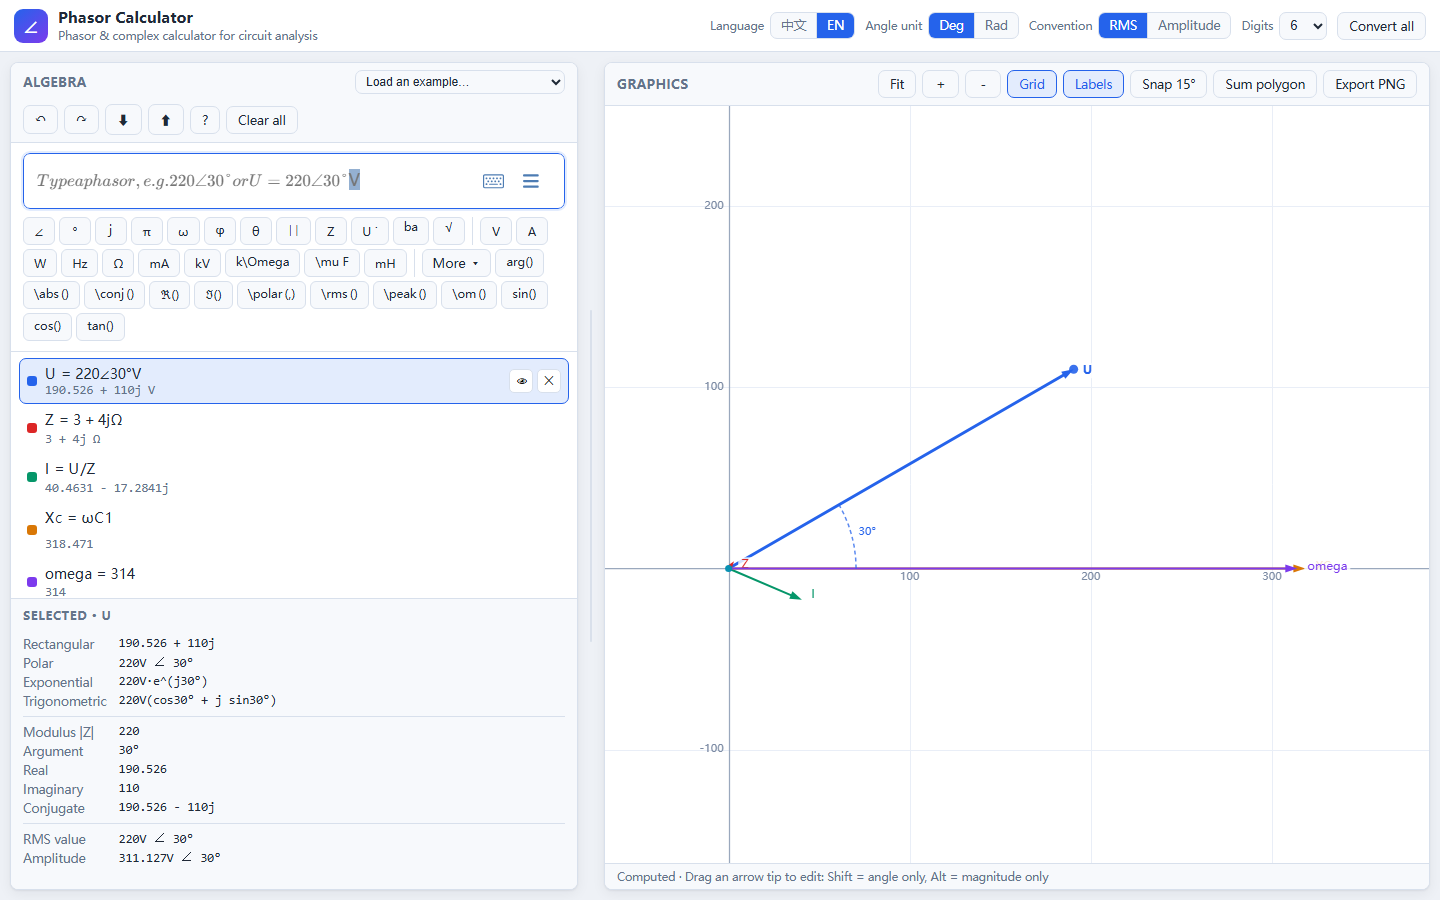
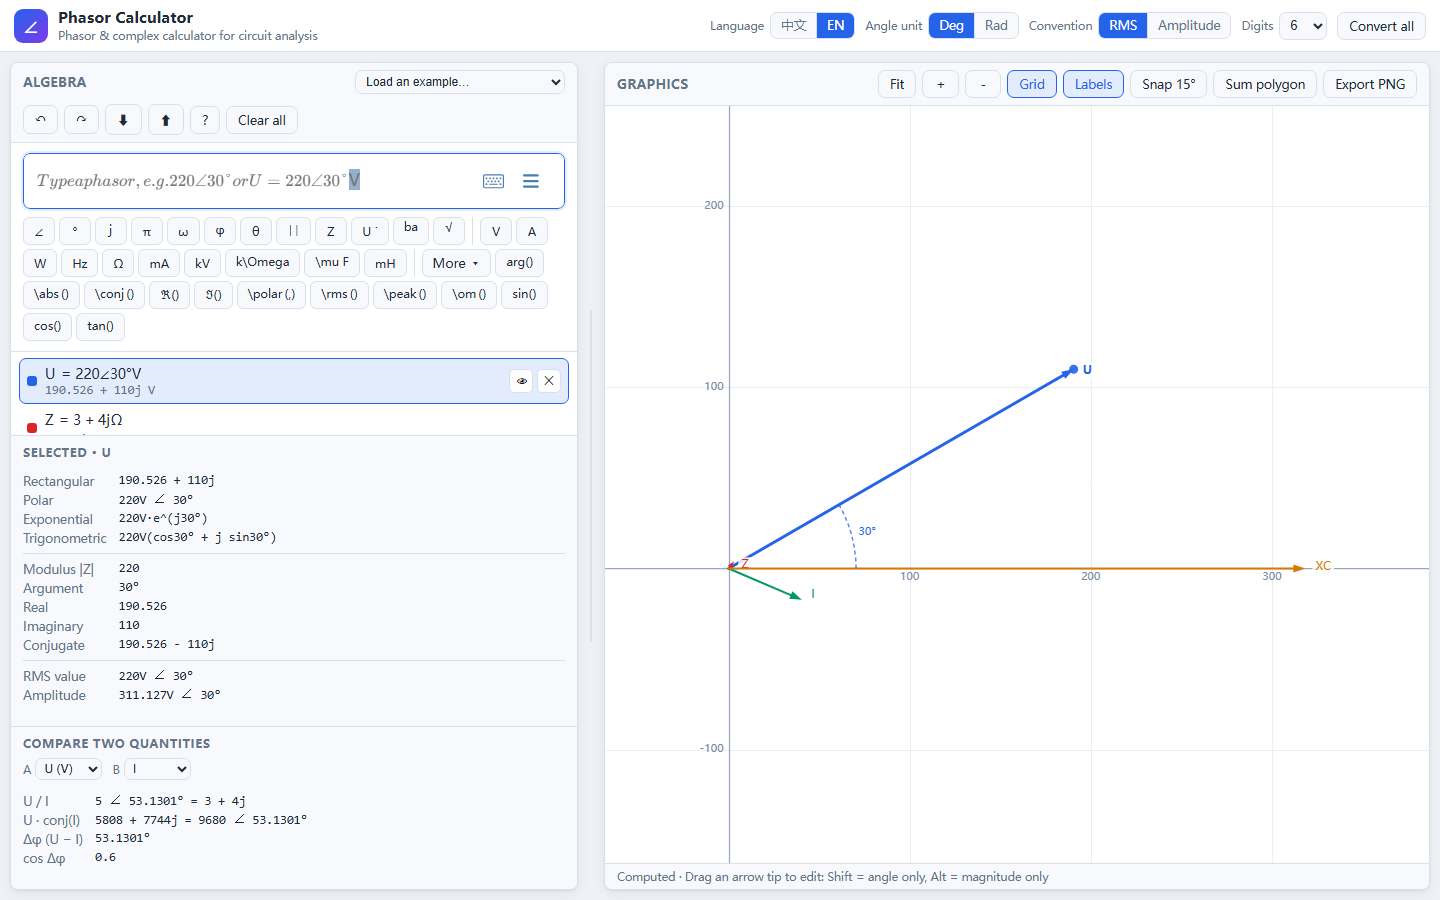
feat(core): compare two phasors (impedance, complex power, phase difference)
- src/core/compare.ts: A/B, A*conj(B), arg(A)-arg(B) wrapped into (-180,180],
  and cos of the difference computed in radians so both angle units agree
- B = 0 returns undefined (arg 0 and a ratio are both meaningless), and the
  card explains that instead of printing Infinity
- a 'Compare two quantities' card in the algebra pane; A defaults to the
  selected object, so U vs I is two clicks away
- tests: impedance/power/power-factor numbers, angle wrapping (+170 for a 190
  degree separation), unit independence, symmetry, and the zero case
- README and DEVELOPMENT updated: 199 unit tests, 41 browser checks

Changed region(s): [[0.0, 0.4667, 0.1875, 0.9644], [0.5, 0.6222, 0.9375, 0.6533], [0.1875, 0.9022, 0.2188, 0.9333]]

diff --git a/src/ui/algebra.ts b/src/ui/algebra.ts
@@ -3,7 +3,7 @@
  * Pure rendering - every interaction is reported through callbacks.
  */
 
-import { t, translateEvalError } from '../i18n'
+import { t, translateEvalError, type StringKey } from '../i18n'
 import {
   argumentOf,
   formatExponential,
@@ -13,6 +13,7 @@ import {
   formatTrig,
   magnitudeOf,
 } from '../core/format'
+import { comparePhasors } from '../core/compare'
 import { objectLatex, type Session } from '../core/session'
 import type { Cx, PhasorObject } from '../core/types'
 import { escapeHtml, renderLatex } from './latexRender'
@@ -154,6 +155,99 @@ export function renderResultCard(
     )
   }
 
+  const dl = buildGrid(rows, onCopy)
+  host.append(dl)
+}
+
+export interface CompareSelection {
+  aId?: number
+  bId?: number
+}
+
+/**
+ * The two-object card: A/B is an impedance when A is a voltage and B a current,
+ * and A*conj(B) is then the complex power. Both come straight out of
+ * `comparePhasors`, so this function only picks objects and formats them.
+ */
+export function renderCompareCard(
+  host: HTMLElement,
+  session: Session,
+  selection: CompareSelection,
+  selectedId: number | undefined,
+  onChange: (next: CompareSelection) => void,
+  onCopy?: (text: string) => void,
+): void {
+  const { angleUnit, precision } = session.settings
+  const usable = session.objects.filter((o) => o.value)
+  const pick = (id: number | undefined): PhasorObject | undefined =>
+    id !== undefined ? usable.find((o) => o.id === id) : undefined
+
+  // A defaults to whatever is selected, so the common case needs one click only
+  const a = pick(selection.aId) ?? pick(selectedId) ?? usable[0]
+  const b = pick(selection.bId)
+
+  host.replaceChildren()
+  const title = document.createElement('h3')
+  title.textContent = t('compare.title')
+  host.append(title)
+
+  const bar = document.createElement('div')
+  bar.className = 'compare-bar'
+  const makeSelect = (labelKey: StringKey, current: PhasorObject | undefined, candidates: PhasorObject[], allowEmpty: boolean, onPick: (id: number | undefined) => void): void => {
+    const label = document.createElement('label')
+    label.textContent = t(labelKey)
+    const select = document.createElement('select')
+    select.className = 'control-select'
+    if (allowEmpty) {
+      const none = document.createElement('option')
+      none.value = ''
+      none.textContent = t('compare.pick')
+      select.append(none)
+    }
+    for (const o of candidates) {
+      const option = document.createElement('option')
+      option.value = String(o.id)
+      option.textContent = o.unit ? `${o.name} (${o.unit})` : o.name
+      select.append(option)
+    }
+    select.value = current ? String(current.id) : ''
+    select.disabled = candidates.length === 0
+    select.addEventListener('change', () => onPick(select.value === '' ? undefined : Number(select.value)))
+    label.append(select)
+    bar.append(label)
+  }
+
+  makeSelect('compare.a', a, usable, false, (id) => onChange({ aId: id, bId: id === selection.bId ? undefined : selection.bId }))
+  makeSelect('compare.b', b, usable.filter((o) => o.id !== a?.id), true, (id) => onChange({ aId: selection.aId, bId: id }))
+  host.append(bar)
+
+  if (!a || !b) {
+    const hint = document.createElement('div')
+    hint.className = 'object-value'
+    hint.textContent = t('compare.hint')
+    host.append(hint)
+    return
+  }
+
+  const comparison = comparePhasors(a.value as Cx, b.value as Cx, angleUnit)
+  if (!comparison) {
+    const hint = document.createElement('div')
+    hint.className = 'object-value'
+    hint.textContent = t('compare.bZero')
+    host.append(hint)
+    return
+  }
+
+  const opts = { angleUnit, precision }
+  host.append(buildGrid([
+    [`${a.name} / ${b.name}`, `${formatPolar(comparison.ratio, opts)}  =  ${formatRect(comparison.ratio, precision)}`],
+    [`${a.name} \u00b7 conj(${b.name})`, `${formatRect(comparison.product, precision)}  =  ${formatPolar(comparison.product, opts)}`],
+    [`\u0394\u03c6 (${a.name} \u2212 ${b.name})`, formatAngle(comparison.deltaAngle, angleUnit, precision)],
+    ['cos \u0394\u03c6', formatNumber(comparison.cosDelta, precision)],
+  ], onCopy))
+}
+
+function buildGrid(rows: Array<[string, string, boolean?]>, onCopy?: (text: string) => void): HTMLElement {
   const dl = document.createElement('dl')
   dl.className = 'result-grid'
   for (const [label, text] of rows) {
@@ -178,7 +272,7 @@ export function renderResultCard(
     }
     dl.append(dt, dd)
   }
-  host.append(dl)
+  return dl
 }
 
 function formatAngle(deg: number, angleUnit: 'deg' | 'rad', precision: number): string {

diff --git a/tests/compare.test.ts b/tests/compare.test.ts
@@ -1,0 +1,72 @@
+import { describe, expect, it } from 'vitest'
+
+import { comparePhasors } from '../src/core/compare'
+
+const D = Math.PI / 180
+const polar = (r: number, deg: number) => ({ re: r * Math.cos(deg * D), im: r * Math.sin(deg * D) })
+
+describe('comparePhasors', () => {
+  it('gives the impedance for a voltage and a current', () => {
+    // U = 220 at 0 deg, I = 2.64 - 3.52j (= 4.4 at -53.13 deg) -> Z = 30 + 40j
+    const c = comparePhasors({ re: 220, im: 0 }, { re: 2.64, im: -3.52 }, 'deg')!
+    expect(c.ratio.re).toBeCloseTo(30, 9)
+    expect(c.ratio.im).toBeCloseTo(40, 9)
+    expect(c.deltaAngle).toBeCloseTo(53.13010235, 6)
+    expect(c.cosDelta).toBeCloseTo(0.6, 9)
+  })
+
+  it('gives the complex power as A * conj(B)', () => {
+    const c = comparePhasors({ re: 220, im: 0 }, { re: 2.64, im: -3.52 }, 'deg')!
+    expect(c.product.re).toBeCloseTo(580.8, 9)
+    expect(c.product.im).toBeCloseTo(774.4, 9)
+    // S = P + jQ with the magnitude U * I
+    expect(Math.hypot(c.product.re, c.product.im)).toBeCloseTo(220 * 4.4, 9)
+    // and the power factor is cos(phase difference)
+    expect(c.product.re / Math.hypot(c.product.re, c.product.im)).toBeCloseTo(c.cosDelta, 9)
+  })
+
+  it('keeps the angle of the ratio consistent with deltaAngle', () => {
+    const c = comparePhasors(polar(100, 70), polar(50, 22), 'deg')!
+    expect(Math.atan2(c.ratio.im, c.ratio.re) / D).toBeCloseTo(c.deltaAngle, 6)
+  })
+
+  it('wraps a phase difference into (-180, 180]', () => {
+    const c = comparePhasors(polar(1, 0), polar(1, 190), 'deg')!
+    expect(c.deltaAngle).toBeCloseTo(170, 6)
+    const d = comparePhasors(polar(1, 0), polar(1, -190), 'deg')!
+    expect(d.deltaAngle).toBeCloseTo(-170, 6)
+  })
+
+  it('reports the difference in the requested unit but does not change the cosine', () => {
+    const a = polar(1, 30)
+    const b = polar(1, -30)
+    const deg = comparePhasors(a, b, 'deg')!
+    const rad = comparePhasors(a, b, 'rad')!
+    expect(deg.deltaAngle).toBeCloseTo(60, 9)
+    expect(rad.deltaAngle).toBeCloseTo(60 * D, 9)
+    expect(deg.cosDelta).toBeCloseTo(0.5, 9)
+    expect(rad.cosDelta).toBeCloseTo(0.5, 9)
+  })
+
+  it('divides by a purely imaginary phasor correctly', () => {
+    const c = comparePhasors({ re: 1, im: 0 }, { re: 0, im: 1 }, 'deg')!
+    expect(c.ratio.re).toBeCloseTo(0, 12)
+    expect(c.ratio.im).toBeCloseTo(-1, 12)
+    expect(c.deltaAngle).toBeCloseTo(-90, 9)
+    expect(c.cosDelta).toBeCloseTo(0, 9)
+  })
+
+  it('has no answer when B is zero', () => {
+    expect(comparePhasors({ re: 5, im: 5 }, { re: 0, im: 0 }, 'deg')).toBeUndefined()
+  })
+
+  it('is symmetric in magnitude but not in sign', () => {
+    const a = polar(3, 10)
+    const b = polar(7, 80)
+    const ab = comparePhasors(a, b, 'deg')!
+    const ba = comparePhasors(b, a, 'deg')!
+    expect(Math.hypot(ab.ratio.re, ab.ratio.im) * Math.hypot(ba.ratio.re, ba.ratio.im)).toBeCloseTo(1, 9)
+    expect(ab.deltaAngle).toBeCloseTo(-ba.deltaAngle, 9)
+    expect(Math.hypot(ab.product.re, ab.product.im)).toBeCloseTo(Math.hypot(ba.product.re, ba.product.im), 9)
+  })
+})

diff --git a/src/core/compare.ts b/src/core/compare.ts
@@ -1,0 +1,64 @@
+/**
+ * Comparing two phasors.
+ *
+ * This is the whole point of phasors: the *difference* of two arguments is a
+ * power factor, and the *ratio* of two phasors is an impedance. Both fall out
+ * of one pair of complex operations, so the UI only has to pick two objects.
+ *
+ * Conventions:
+ *   - the phase difference is `arg(A) - arg(B)`, wrapped to (-180, 180] degrees
+ *     or (-pi, pi] radians, because a phase difference is only meaningful
+ *     modulo a full turn;
+ *   - `cosDelta` is always computed in radians internally, so it is exact in
+ *     both angle units;
+ *   - with A = U and B = I, `ratio` is the impedance and `product` is the
+ *     complex power S (A * conj(B)).
+ */
+
+import type { AngleUnit, Cx } from './types'
+import { magnitudeOf } from './format'
+
+export interface Comparison {
+  /** A / B: the impedance when A is a voltage and B is a current */
+  ratio: Cx
+  /** A * conj(B): the complex power when A is a voltage and B is a current */
+  product: Cx
+  /** arg(A) - arg(B), wrapped into (-180, 180] degrees or (-pi, pi] radians */
+  deltaAngle: number
+  /** cos of the phase difference: the power factor for U and I */
+  cosDelta: number
+}
+
+function wrapRadians(rad: number): number {
+  const twoPi = Math.PI * 2
+  let x = rad % twoPi
+  if (x <= -Math.PI) x += twoPi
+  if (x > Math.PI) x -= twoPi
+  return x
+}
+
+/**
+ * Returns `undefined` when B is zero, because neither the ratio nor a phase
+ * difference means anything then (arg 0 is not defined).
+ */
+export function comparePhasors(a: Cx, b: Cx, angleUnit: AngleUnit): Comparison | undefined {
+  if (magnitudeOf(b) === 0) return undefined
+
+  const denominator = b.re * b.re + b.im * b.im
+  const ratio: Cx = {
+    re: (a.re * b.re + a.im * b.im) / denominator,
+    im: (a.im * b.re - a.re * b.im) / denominator,
+  }
+  const product: Cx = {
+    re: a.re * b.re + a.im * b.im,
+    im: a.im * b.re - a.re * b.im,
+  }
+
+  const dRad = wrapRadians(Math.atan2(a.im, a.re) - Math.atan2(b.im, b.re))
+  return {
+    ratio,
+    product,
+    deltaAngle: angleUnit === 'deg' ? (dRad * 180) / Math.PI : dRad,
+    cosDelta: Math.cos(dRad),
+  }
+}

diff --git a/src/main.ts b/src/main.ts
@@ -18,7 +18,7 @@ import { getLang, setLang, t, translateEvalError, type Lang, type StringKey } fr
 import { sumOf } from './plot/geometry'
 import { PhasorPanel } from './plot/panel'
 import type { DrawItem } from './plot/renderer'
-import { renderObjectList, renderResultCard } from './ui/algebra'
+import { renderCompareCard, renderObjectList, renderResultCard, type CompareSelection } from './ui/algebra'
 import { buildKeyboard, type KeyDef } from './ui/keyboard'
 import { escapeHtml } from './ui/latexRender'
 
@@ -102,11 +102,14 @@ const $ = <T extends HTMLElement>(id: string): T => {
 const session = new Session(loadSettings())
 let selectedId: number | undefined
 let statusKey: StringKey = 'status.ready'
+/** which two objects the comparison card is looking at */
+let compareSelection: CompareSelection = {}
 
 const input = $<MathfieldElement>('input')
 const inputError = $<HTMLParagraphElement>('input-error')
 const objectList = $('object-list')
 const resultCard = $('result-card')
+const compareCard = $('compare-card')
 const keyboardHost = $('keyboard')
 const topbarControls = $('topbar-controls')
 const graphicsTools = $('graphics-tools')
@@ -397,6 +400,10 @@ function render(): void {
     },
   })
   renderResultCard(resultCard, session, selectedId, copyResult)
+  renderCompareCard(compareCard, session, compareSelection, selectedId, (next) => {
+    compareSelection = next
+    render()
+  }, copyResult)
   statusEl.textContent = `${t(statusKey)} · ${t('status.drag')}`
   ;($('btn-undo') as HTMLButtonElement).disabled = !session.canUndo
   ;($('btn-redo') as HTMLButtonElement).disabled = !session.canRedo

diff --git a/src/i18n.ts b/src/i18n.ts
@@ -76,7 +76,15 @@ const STRINGS = {
   'result.copyFailed': { zh: '复制失败，请手动选中', en: 'Could not copy; please select it manually' },
 
   'example.load': { zh: '载入示例…', en: 'Load an example…' },
-  'example.rlc': { zh: '串联 RLC（求电流）', en: 'Series RLC (find the current)' },
+  'compare.title': { zh: '双量对比', en: 'Compare two quantities' },
+  'compare.a': { zh: '量 A', en: 'A' },
+  'compare.b': { zh: '量 B', en: 'B' },
+  'compare.pick': { zh: '（未选择）', en: '(none)' },
+  'compare.hint': {
+    zh: '选两个量即可对比：A/B 就是阻抗（A=电压、B=电流时），A·B̅ 就是复功率。',
+    en: 'Pick two: A/B is the impedance when A is a voltage and B a current, and A\u00b7conj(B) is the complex power.',
+  },
+  'compare.bZero': { zh: 'B 为零，比值与相位差都没有意义。', en: 'B is zero, so neither a ratio nor a phase difference is defined.' },  'example.rlc': { zh: '串联 RLC（求电流）', en: 'Series RLC (find the current)' },
   'example.power': { zh: '功率与功率因数', en: 'Power and power factor' },
   'example.threePhase': { zh: '三相星形（线电压 √3 倍）', en: 'Three-phase star (√3 line voltage)' },
   'example.parallel': { zh: '并联阻抗', en: 'Parallel impedance' },

diff --git a/src/styles.css b/src/styles.css
@@ -305,6 +305,9 @@ math-field.math-input:focus {
 .result-grid dd.copyable { cursor: pointer; border-radius: 4px; padding: 0 3px; margin-left: -3px; }
 .result-grid dd.copyable:hover { background: var(--accent-soft); }
 .result-grid dd.copied { background: #d9f5e3; transition: background 0.2s ease; }
+.compare-bar { display: flex; gap: 10px; flex-wrap: wrap; margin-bottom: 7px; }
+.compare-bar label { display: flex; align-items: center; gap: 4px; font-size: 12px; color: var(--text-dim); white-space: nowrap; }
+.compare-bar select { max-width: 140px; font-size: 12px; padding: 2px 4px; }
 .result-sep { grid-column: 1 / -1; height: 1px; background: var(--border); margin: 4px 0; }
 
 /* ----------------------------------------------------------- graphics pane */

diff --git a/index.html b/index.html
@@ -44,6 +44,7 @@
 
           <div class="object-list" id="object-list"></div>
           <div class="result-card" id="result-card"></div>
+          <div class="result-card" id="compare-card"></div>
         </section>
 
         <div class="splitter" id="splitter" role="separator" aria-orientation="vertical" tabindex="0"></div>

diff --git a/README.md b/README.md
@@ -34,6 +34,7 @@ Ordinary calculators cannot even type phasor notation; this one is built around 
 | Edit again | double-click an object to load its own source back into the input box |
 | Recall input | press ↑ in an empty input box to walk back through what you typed before |
 | Copy a result | click any line of the result card to put that number on the clipboard |
+| Compare two quantities | pick A and B: `A/B` is the impedance when A is a voltage and B a current, `A·conj(B)` is the complex power, plus Δφ and cos Δφ |
 | Worked examples | four classic setups (series RLC, power factor, three-phase star, parallel branches) load with one click |
 | Undo / redo | every change, including settings, angle-unit switches and the convention conversion |
 | Never lose work | the project is saved in the browser as you type, and can be exported / imported as JSON |
@@ -108,17 +109,17 @@ symbols.
 
 ## Verification
 
-`npm test` runs 191 unit tests: the LaTeX converter, the whole documented syntax
+`npm test` runs 199 unit tests: the LaTeX converter, the whole documented syntax
 table (four input forms, the angle model, naming, unit labels, the convention
 factor and twelve rejected inputs), the session model including undo/redo and
-project round-trips, the diagram geometry, and every shipped example (which is
-evaluated and compared against the textbook answer). The UI itself is checked in
-a real browser: a headless-Chrome harness drives the page through its public
-handle, asserts on computation results and DOM state, samples canvas pixels to
-confirm the arrow and the sum polygon are drawn where they should be, and
-exercises drag-to-edit, zoom, pan, hide/delete, undo/redo, input recall,
-copy-to-clipboard, the example picker, reload persistence and project
-export/import (38 checks).
+project round-trips, the diagram geometry, the two-phasor comparison, and every
+shipped example (which is evaluated and compared against the textbook answer).
+The UI itself is checked in a real browser: a headless-Chrome harness drives the
+page through its public handle, asserts on computation results and DOM state,
+samples canvas pixels to confirm the arrow and the sum polygon are drawn where
+they should be, and exercises drag-to-edit, zoom, pan, hide/delete, undo/redo,
+input recall, copy-to-clipboard, the example picker, the comparison card, reload
+persistence and project export/import (41 checks).
 
 ## Browser support
 
